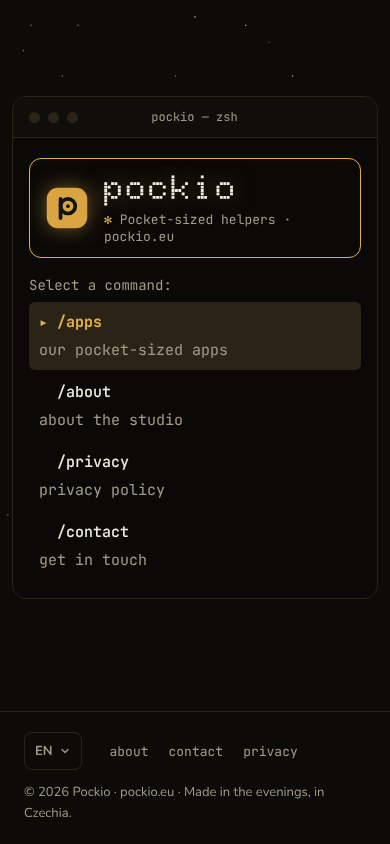
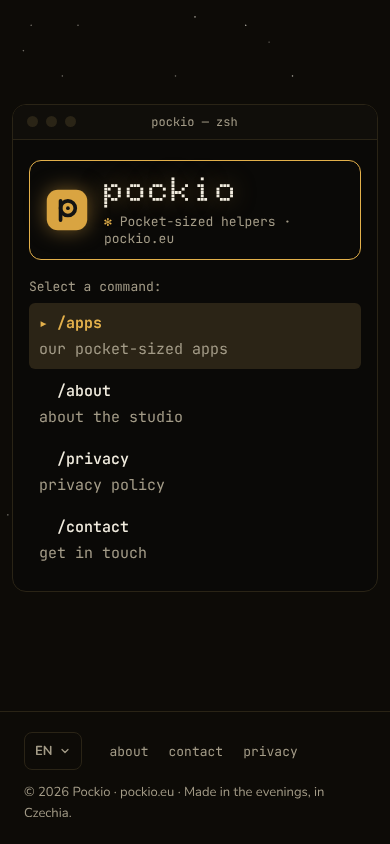
Update design: 760 px window, smaller type, new phone boards

diff --git a/design/README.md b/design/README.md
@@ -1,6 +1,6 @@
 # design/
 
-Screenshoty schváleného návrhu (plátno „Pockio.eu – website"), vždy EN a CS, jen tmavé téma. Desktop 1280 px (`*-en.png`, `*-cs.png`), telefon 390 px (`*-telefon.png`).
+Screenshoty schváleného návrhu (plátno „Pockio.eu – website"), vždy EN a CS, jen tmavé téma. Desktop (okno prohlížeče 1280 px, terminál 760 px) (`*-en.png`, `*-cs.png`), telefon 390 px (`*-telefon.png`).
 
 | Soubor | Co ukazuje |
 |---|---|
@@ -9,7 +9,7 @@ Screenshoty schváleného návrhu (plátno „Pockio.eu – website"), vždy EN 
 | `03-o-studiu-*` | O studiu jako výpis `/about` |
 | `04-detail-appky-*` | Detail appky jako výpis `/attendance` (zpět `← /apps`) |
 | `05-kontakt-*` | Kontakt jako výpis `/contact` |
-| `06-privacy-*` | Privacy: samostatná textová stránka bez terminálu. Příkaz `/privacy` v terminálu vypíše krátké shrnutí s odkazem na ni (tento výpis v designu zatím není) |
+| `06-privacy-*` | Privacy: samostatná textová stránka bez terminálu (`/privacy` na ni jen odkazuje) |
 | `terminal-demo-vypisovani.html` | Klikací ukázka vypisování po slovech (starší, appky ještě přímo na Domů; chování výpisu platí). |
 
 Poznámky:
